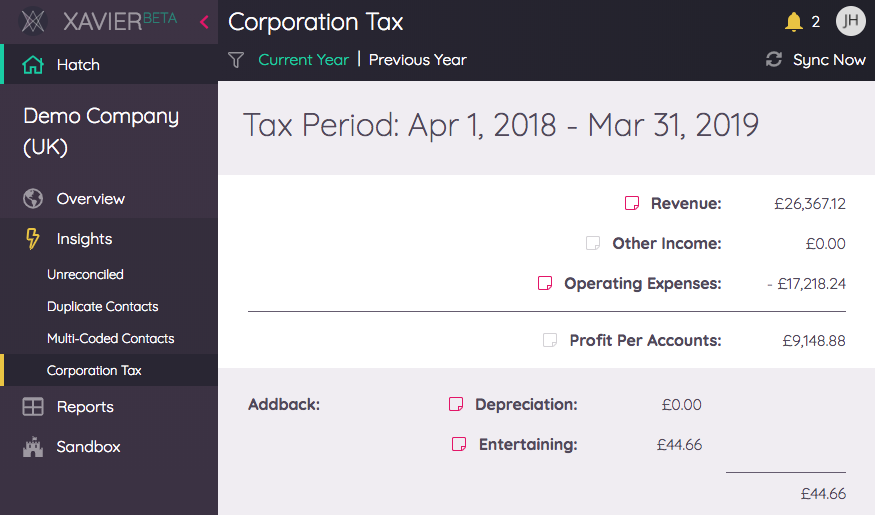
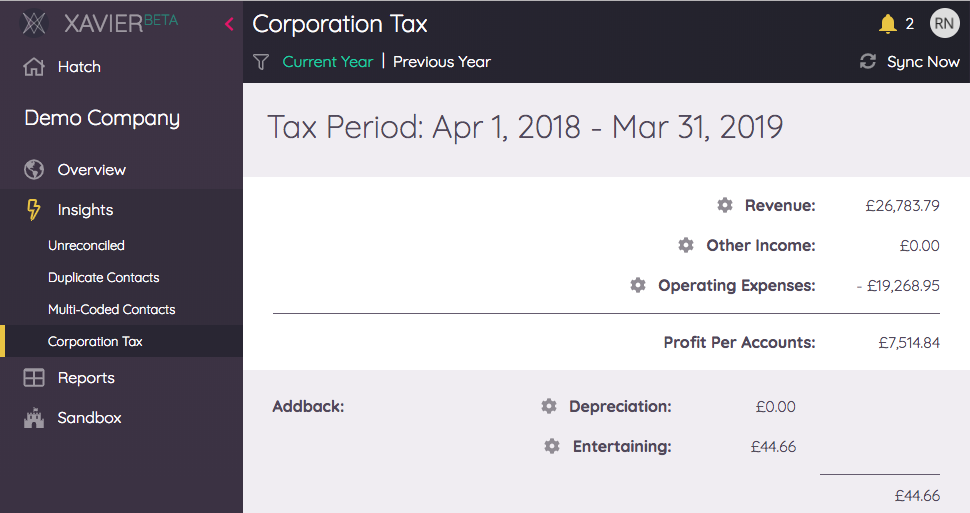
Corporation tax override docs

diff --git a/insights.md b/insights.md
@@ -42,4 +42,32 @@ Xero provides a dedicated mechanism for re-coding, and their support documentati
 ## Corporation Tax
 ![Coporation Tax](./images/insight-corporation-tax.png)
 
-The Corporation Tax insight gives an estimate of corporation tax due for the current and previous financial years.
+The Corporation Tax insight gives an estimate of the corporation tax accrued by a company for the current and previous 
+financial years, based on UK tax rates and using the financial year-end dates in the Xero settings.
+
+In terms of how the different elements are calculated, Xavier starts your team off with some defaults based on the chart 
+of account's [Account Type](https://central.xero.com/s/article/Components-of-an-account-in-your-chart-of-accounts-AU?userregion=true)
+and the  [Reporting Codes](https://central.xero.com/s/article/Report-codes-for-practices-using-report-templates) 
+provided by Xero. 
+
+### Client-specific configuration
+Reporting Codes are applied to all Accounts, and can be customised in Xero by your team. They are a great way of 
+achieving reporting consistency across clients that have different chart of account configurations. But you only have 
+visibility of Reporting Codes if you are a Xero Partner, and sometimes it is not feasible to configure these for every 
+client you work with. 
+
+Xavier allows you to override the default corporation tax calculation for a client. By clicking on the cog beside an 
+element of the corporation tax view you will see what is currently being used for that section of the calculation. 
+
+![Coporation Tax Section Calculation](./images/insight-corporation-tax-override.png)
+
+Clicking "change" allows you to specify individual account codes to either include or exclude, depending on the section: 
+
+![Coporation Tax Section Override](./images/insight-corporation-tax-override-change.png)
+
+Specifying account codes means that the default calculation will no longer be used for this client, and Xavier will 
+instead use the account codes provided. Upon clicking *Save*, the corporation tax will be recalculated for current and
+previous years based on the new configuration.
+
+You can remove account codes from the calculation at any time, and removing all of them will result in the calculation 
+reverting back to using the Xavier defaults.
